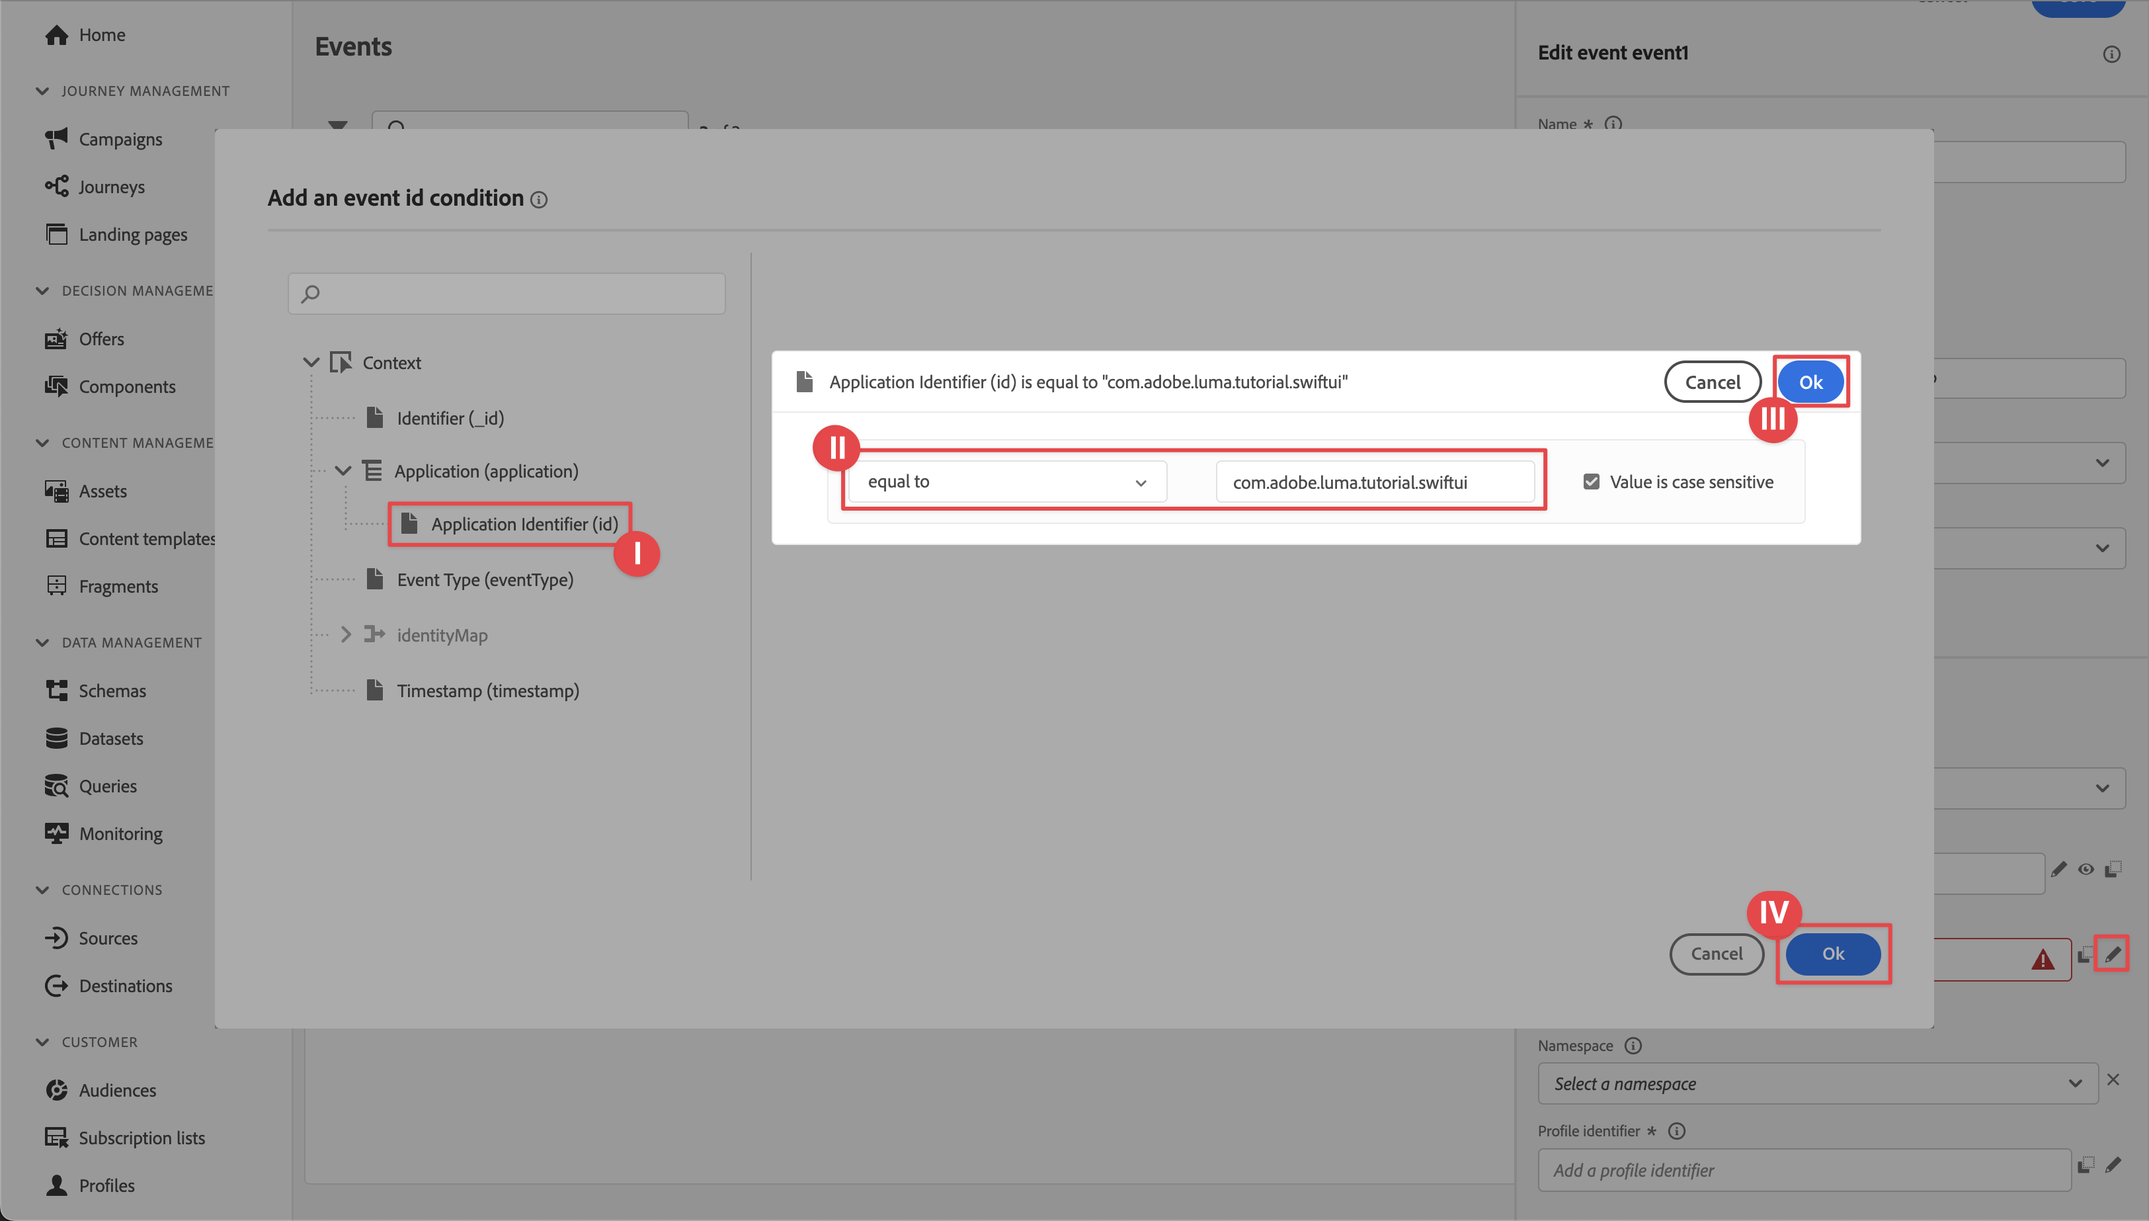
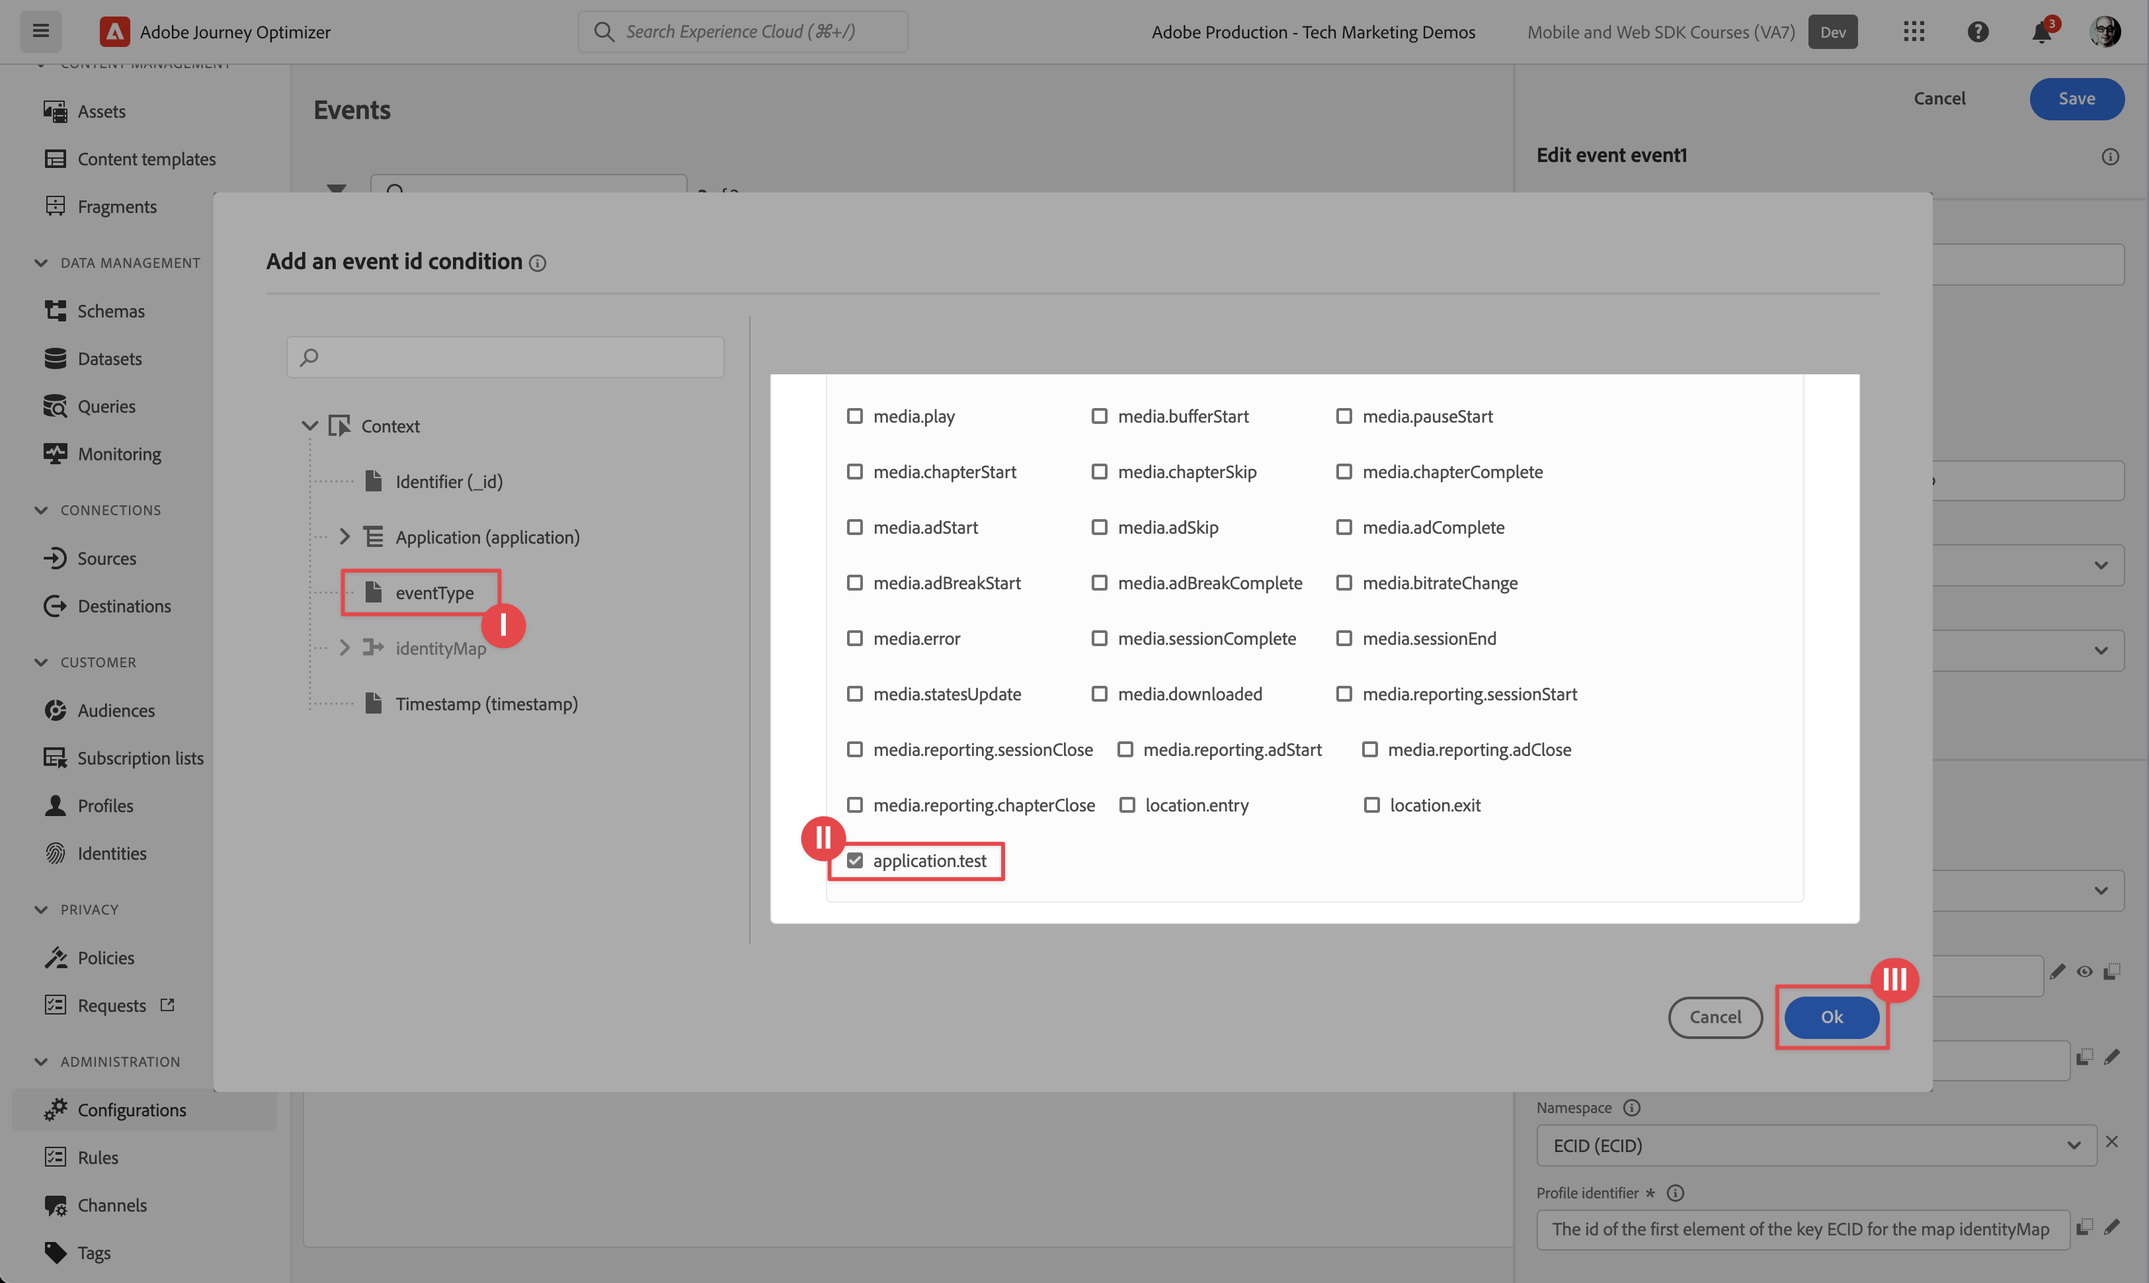
Added Target content

diff --git a/help/tutorial-mobile-sdk-new/target.md b/help/tutorial-mobile-sdk-new/target.md
@@ -1,0 +1,243 @@
+---
+title: Perform A/B Tests with Target
+description: Learn how to use a Target A/B test in you mobile app with Platform Mobile SDK and Adobe Target.
+solution: Data Collection,Target
+feature-set: Target
+feature: A/B Tests
+hide: yes
+---
+
+# Perform A/B Tests with Target
+
+Learn how to perform A/B test in your mobile apps with Platform Mobile SDK and Adobe Target.
+
+Target provides everything you need to tailor and personalize your customers' experiences. Target helps you maximize revenue on your web and mobile sites, apps, social media, and other digital channels. The focus in this tutorial is on the A/B test functionality of Target. See [A/B Test overview](https://experienceleague.adobe.com/docs/target/using/activities/abtest/test-ab.html?lang=en) for more information. 
+
+Before you perform A/B tests with Target Premium, you must ensure that the proper configurations and integrations are in place.
+
+>[!NOTE]
+>
+>This lesson is optional and only applies to Adobe Target Premium users looking to perform A/B tests 
+
+
+## Prerequisites
+
+* Successfully built and run app with SDKs installed and configured.
+* Access to Adobe Target Premium with permissions, properly configured roles, workspaces and properties as described [here](https://experienceleague.adobe.com/docs/target/using/administer/manage-users/enterprise/property-channel.html?lang=en).
+  You should be able to use Target Standard as well, but the tutorial uses a number of advanced concepts (for example Target properties) which are uniqe to Target Premium.
+
+
+## Learning objectives
+
+In this lesson, you will:
+
+* Update your Edge configuration for Target integration.
+* Update your tag property with the Journey Optimizer - Decisioning extension.
+* Update your schema to capture propositon events.
+* Validate setup in Assurance.
+* Create a simple A/B test in Target.
+* Update your app to include the Optimize extension.
+
+* Implement the A/B test in your app.
+
+## Update Edge configuration
+
+You need to update you Experience Edge configuration to ensure data send from your mobile app to the Edge Network is forwarded to Adobe Target.
+
+1. In the Data Collection UI, select **[!UICONTROL Datastreams]**, and select your datastream, for example **[!UICONTROL Luma Mobile App]**.
+1. Select **[!UICONTROL Add Service]** and select **[!UICONTROL Adobe Target]** from the **[!UICONTROL Service]** list.
+1. Enter the Target **[!UICONTROL Property Token]** value you want to use for this integration. 
+
+   You can find your properties in the Target UI, in **[!UICONTROL Administration]** > **[!UICONTROL Properties]**. Select ![Code](https://spectrum.adobe.com/static/icons/workflow_18/Smock_Code_18_N.svg) to reveal the property token for the property you want to use. The property token has a format like `"at_property": "xxxxxxxx-xxxx-xxxxx-xxxx-xxxxxxxxxxxx"`; you only need to enter the value `xxxxxxxx-xxxx-xxxxx-xxxx-xxxxxxxxxxxx`.
+
+1. Select **[!UICONTROL Save]**.
+
+    ![Add Target to datastream](assets/edge-datastream-target.png)
+
+
+## Install Adobe Journey Optimizer - Decisioning tags extension
+
+1. Navigate to **[!UICONTROL Tags]** and find your mobile tag property and open the property.
+1. Select **[!UICONTROL Extensions]**.
+1. Select **[!UICONTROL Catalog]**.
+1. Search for the **[!UICONTROL Adobe Journey Optimizer - Decisioning]** extension.
+1. Install the extension. The extension does not require additional configuration.
+
+    ![Add Decisioning extension](assets/tag-add-decisioning-extension.png)
+
+
+## Update your schema
+
+1. Navigate to Data Collection UI and select Schemas from the left rail.
+1. Select Browse from the top bar.
+1. Select your schema to open it.
+1. In the schema editor, click on + Add next to Field groups.
+1. In the Add fields group, search for proposition, select Experience Event - Proposition Interactions and select add field groups.
+   ![Proposition](assets/schema-fieldgroup-proposition.png)
+1. Select Save to save the changes to your schema.
+
+
+## Validate with Assurance
+
+To validate your setup in Assurance:
+
+1. Go to the Assurance UI.
+1. Select **[!UICONTROL Configure]** in left rail and select ![Add](https://spectrum.adobe.com/static/icons/workflow_18/Smock_AddCircle_18_N.svg) next to **[!UICONTROL Validate Setup]** underneath **[!UICONTROL ADOBE JOURNEY OPTIMIZER DECISIONING]**.
+1. Select **[!UICONTROL Save]**.
+1. Select **[!UICONTROL Validate Setup]** in the left rail. Both datastream setup is validated and the SDK setup in your application.
+   ![AJO Decisioning validation](assets/ajo-decisioning-validation.png) 
+
+## Create an A/B Test
+
+1. In the Target UI, select **[!UICONTROL Activities]** from the top bar.
+1. Select **[!UICONTROL Create Activity]** and **[!UICONTROL A/B Test]** from the context menu.
+1. In the **[!UICONTROL Create A/B Test Activity]** modal, select **[!UICONTROL Mobile]** as the **[!UICONTROL Type]**, select a workspace from the **[!UICONTROL Choose Workspace]** list and select your property from the **[!UICONTROL Choose property]** list.
+1. Select **[!UICONTROL Create]**.
+   ![Create Target activity](assets/target-create-activity1.png)
+
+1. In the **[!UICONTROL Untitled Activity]** screen, at the **[!UICONTROL Experiences]** step:
+
+   1. Enter `luma-mobileapp-abtest` in **[!UICONTROL Select Location]** underneath L**[!UICONTROL OCATION 1]**.
+   1. Select ![Chrevron down](https://spectrum.adobe.com/static/icons/workflow_18/Smock_ChevronDown_18_N.svg) next to **[!UICONTROL Default Content]** and select **[!UICONTROL Create JSON Offer]** from the context menu.
+   1. Copy the following JSON into **[!UICONTROL Enter a valid JSON object]**.
+
+        ```json
+        { 
+            "title": "Luma Anaolog Watch",
+            "text": "Designed to stand up to your active lifestyle, this women's Luma Analog Watch features a tasteful brushed chrome finish and a stainless steel, water-resistant construction for lasting durability.", 
+            "image": "https://luma.enablementadobe.com/content/dam/luma/en/products/gear/watches/Luma_Analog_Watch.jpg" 
+        }
+        ```
+
+   1. Select **[!UICONTROL + Add Experience]**.
+   
+       ![Experience A](assets/target-create-activity-experienceA.png)
+
+   1. Repeat step b and c for  experience Experience B, but instead use the following JSON:
+
+        ```json
+        { 
+            "title": "Aim Analog Watch",
+            "text": "The flexible, rubberized strap is contoured to conform to the shape of your wrist for a comfortable all-day fit. The face features three illuminated hands, a digital read-out of the current time, and stopwatch functions.", 
+            "image": "https://luma.enablementadobe.com/content/dam/luma/en/products/gear/watches/Aim_Watch.jpg" 
+        }
+
+        ```
+
+   1. Select **[!UICONTROL Next]**.
+      
+      ![Experience B](assets/target-create-activity-experienceB.png)
+
+1. In the **[!UICONTROL Targeting]** step, review the setup of your A/B test. By default, both offers are allocated equally across all visitors. Select **[!UICONTROL Next]** to continue.
+
+   ![Targeting](assets/taget-targeting.png)
+
+1. In the **[!UICONTROL Goals & Settings]** step:
+
+    1. Rename your Untitled Activity, for example to to `Luma Mobile SDK Tutorial - A/B Test Example`.
+    1. Enter an **[!UICONTROL Objective]** for your A/B test, for example `A/B Test for Luma mobile app tutorial`.
+    1. Select **[!UICONTROL Conversion]**, **[!UICONTROL Clicked on mbox]** in the **[!UICONTROL Goal Metric]** > **[!UICONTROL MY PRIMARY GOAL]** tile and enter your location (mbox) name, for example `luma-mobileapp-abtest`.
+    1. Select **[!UICONTROL Save & Close]**.
+
+       ![Goals Settings](assets/target-goals.png)
+
+1. Back in the **[!UICONTROL All Activities]** screen:
+
+    1. Select ![More](https://spectrum.adobe.com/static/icons/workflow_18/Smock_MoreSmallList_18_N.svg) at your activity.
+    1. Select ![Play](https://spectrum.adobe.com/static/icons/workflow_18/Smock_Play_18_N.svg) **[!UICONTROL Activate]** to activate your A/B test.
+
+    ![Activate](assets/target-activate.png)
+
+
+## Implement Target in your app
+
+As discussed in previous lessons, installing a mobile tag extension only provides the configuration. Next you must install and register the Optimize SDK. If these steps aren't clear, review the [Install SDKs](install-sdks.md) section.
+
+>[!NOTE]
+>
+>If you completed the [Install SDKs](install-sdks.md) section, then the SDK is already installed and you can skip to step #7.
+>
+
+1. In Xcode, ensure that [AEP Optimize](https://github.com/adobe/aepsdk-messaging-ios.git) is added to the list of packages in Package Dependencies. See [Swift Package Manager](install-sdks.md#swift-package-manager).
+1. Navigate to **[!UICONTROL Luma]** > **[!UICONTROL Luma]** > **[!UICONTROL AppDelegate]**.
+1. Ensure `AEPMessaging` is part of your list of imports.
+
+    `import AEPOptimize`
+
+1. Ensure `Optimize.self` is part of the array of extensions that you are registering.
+
+    ```swift
+    let extensions = [
+        AEPIdentity.Identity.self,
+        Lifecycle.self,
+        Signal.self,
+        Edge.self,
+        AEPEdgeIdentity.Identity.self,
+        Consent.self,
+        UserProfile.self,
+        Places.self,
+        Messaging.self,
+        Optimize.self,
+        Assurance.self
+    ]
+    ```
+
+1. Navigate to **[!UICONTROL Luma]** > **[!UICONTROL Luma]** > **[!UICONTROL Utils]** > **[!UICONTROL MobileSDK]** in Xcode Project navigator. Find the ` func updatePropositionAT(ecid: String, location: String) async` function. Inspect the code which sets up an XDM dictionary `xdmData`, containing the ECID to identify the profile for which we have to present the A/B test, and the `decisionScope`, an array of locations on where to present the A/B test. Then the functions call two Optimize API's: [`Optimizer.clearCachePropositions`](https://support.apple.com/en-ie/guide/mac-help/mchlp1015/mac)  and [`Optimizer.updatePropositions`](https://developer.adobe.com/client-sdks/documentation/adobe-journey-optimizer-decisioning/api-reference/#updatepropositions).  These functions clear any cached propositions and update the propositions for this profile.
+
+1. Navigate to **[!UICONTROL Luma]** > **[!UICONTROL Luma]** > **[!UICONTROL Views]** > **[!UICONTROL Personalization]** > **[!UICONTROL TargetOffersView]** in Xcode Project navigator. Find the `func getPropositionAT(location: String) async` function and inspect the code of this function. The most important part of this function is the  [`Optimizer.getPropositions`](https://developer.adobe.com/client-sdks/documentation/adobe-journey-optimizer-decisioning/api-reference/#getpropositions) API call, which retrieves the propositions for the current profile based on the decision scope (which is the location you have defined in the A/B Test) and unwraps the result in content that can be displayed properly in the app.
+
+1. Still in TargetOffersView, find the func updatePropositions(location: String) async function and add the following code:
+
+    ```swift
+        Task {
+            await self.updatePropositionAT(
+                ecid: currentEcid,
+                location: location
+            )
+        }
+        try? await Task.sleep(seconds: 2.0)
+        Task {
+            await self.getPropositionAT(
+                location: location
+            )
+        }
+    ```
+
+    This code ensures we proper update the propositions and then retrieve the results using the functions described in step 5 and 6.
+
+
+## Validate using the app
+
+1. Open your app on a device or in the simulator.
+
+1. Go to the **[!UICONTROL Personalisation]** tab.
+
+1. Select **[!UICONTROL Edge Personalisation]**.
+
+1. Scroll down to the bottom, and you see one of the two offers that you have defined in your A/B test displayed in the **[!UICONTROL TARGET]** tile.
+
+    <img src="assets/target-app-offer.png" width=300>
+
+
+## Validate in Assurance
+
+To validate the A/B test in Assurance:
+
+1. Go to the Assurance UI.
+1. Select **[!UICONTROL Configure]** in left rail and select ![Add](https://spectrum.adobe.com/static/icons/workflow_18/Smock_AddCircle_18_N.svg) next to **[!UICONTROL Review & Simuate]** underneath **[!UICONTROL ADOBE JOURNEY OPTIMIZER DECISIONING]**.
+1. Select **[!UICONTROL Save]**.
+1. Select **[!UICONTROL Review & Simulate]** in the left rail. Both datastream setup is validated and the SDK setup in your application.
+1. Select **[!UICONTROL Requests]** at the top bar. You will see your Target requests.
+   ![AJO Decisioning validation](assets/assurance-decisioning-requests.png)
+
+1. You can explore Simulate and Event List tabs for further functionality checking your setup for Target offers.
+
+## Implement in your app
+
+You should now have all the tools to start adding more A/B tests or other Target activities, where relevant and applicable, to the Luma app.
+
+>[!SUCCESS]
+>
+>You have now enabled the app for A/B tests and used an A/B test using Adobe Target and the Adobe Journey Optimizer - Decisioning extension for the Adobe Experience Platform Mobile SDK.<br/>Thank you for investing your time in learning about Adobe Experience Platform Mobile SDK. If you have questions, want to share general feedback, or have suggestions on future content, share them on this [Experience League Community discussion post](https://experienceleaguecommunities.adobe.com/t5/adobe-experience-platform-launch/tutorial-discussion-implement-adobe-experience-cloud-in-mobile/td-p/443796).
+
+Next: **[Conclusion and next steps](conclusion.md)**

diff --git a/help/tutorial-mobile-sdk-new/journey-optimizer-push.md b/help/tutorial-mobile-sdk-new/journey-optimizer-push.md
@@ -169,6 +169,20 @@ As discussed in previous lessons, installing a mobile tag extension only provide
 
 To create your own push notification, you must define an event in Journey Optimizer that triggers a journey that takes care of sending a push notification.
 
+### Update schema
+
+You are going to define a new event type not available yet as part of the list of events as defined in your schema.
+
+1. In the Journey Optimier UI, select **[!UICONTROL Schemas]** from the left rail.
+1. Select **[!UICONTROL Browse]** in the tab bar.
+1. Select your schema, for example **[!UICONTROL Luma Mobile App Event Schema]** to open it.
+1. In the Schema editor:
+   1. Select the **[!UICONTROL eventType]** field.
+   1. In the **[!UICONTROL Field properties]** pane, scroll down to see the list of possible values for event type. Select **[!UICONTROL Add row]**, and add `application.test` as the **[!UICONTROL VALUE]** and **[!UICONTROL Test event for push notification]** as the `DISPLAY NAME`.
+   1. Select **[!UICONTROL Apply]**.
+   1. Select **[!UICONTROL Save]**.
+      ![Add value to event types](assets/ajo-update-schema-eventtype-enum.png)
+
 ### Define an event
 
 1. In the Journey Optimizer UI, select **[!UICONTROL Configurations]** from the left rail.
@@ -187,7 +201,7 @@ To create your own push notification, you must define an event in Journey Optimi
 
       ![Edit event step 1](assets/ajo-edit-event1.png)
 
-      In the **[!UICONTROL Fields]** dialog, ensure that the following fields are selected (on top of the default fields that are always selected (_id, id, and timestamp)). You can toggle, using the dropdown list, between **[!UICONTROL Selected]**, **[!UICONTROL All]** and **[!UICONTROL Primary]** or use the ![Search](https://spectrum.adobe.com/static/icons/workflow_18/Smock_Search_18_N.svg) field.
+      In the **[!UICONTROL Fields]** dialog, ensure that the following fields are selected (on top of the default fields that are always selected (**[!UICONTROL _id]**, **[!UICONTROL id]**, and **[!UICONTROL timestamp]**)). You can toggle, using the dropdown list, between **[!UICONTROL Selected]**, **[!UICONTROL All]** and **[!UICONTROL Primary]** or use the ![Search](https://spectrum.adobe.com/static/icons/workflow_18/Smock_Search_18_N.svg) field.
 
       * **[!UICONTROL Application Identified (id)]**, 
       * **[!UICONTROL Event Type (eventType)]**, 
@@ -199,9 +213,8 @@ To create your own push notification, you must define an event in Journey Optimi
     
    1. Select ![Edit](https://spectrum.adobe.com/static/icons/workflow_18/Smock_Edit_18_N.svg) next to the **[!UICONTROL Event id condition]** field.
 
-      1. In the **[!UICONTROL Add an event id condition]** dialog, drag and drop **[!UICONTROL Application Identifier (id)]** underneath **[!UICONTROL Application (application)]** on to **[!UICONTROL Drag and drop an element here]**.
-      1. In the popover, enter your Bundle Identifier from Xcode, for example `com.adobe.luma.tutorial.swiftui` in the field next to **[!UICONTROL equal to]**. 
-      1. Click **[!UICONTROL Ok]**.
+      1. In the **[!UICONTROL Add an event id condition]** dialog, drag and drop **[!UICONTROL Event Type (eventType)]** on to **[!UICONTROL Drag and drop an element here]**.
+      1. In the popover, scroll to the bottom and select **[!UICONTROL application.test]**. Then scroll up to the top and select **[!UICONTROL Ok]**.
       1. Click **[!UICONTROL Ok]**.
          ![Edit event condition](assets/ajo-edit-condition.png)
 

diff --git a/help/tutorial-mobile-sdk-new/journey-optimizer-offers.md b/help/tutorial-mobile-sdk-new/journey-optimizer-offers.md
@@ -1,0 +1,9 @@
+---
+title: Adobe Journey Optimizer offers
+description: Learn how to create and display offers with Platform Mobile SDK and Adobe Journey Optimizer Decision Management.
+solution: Data Collection,Journey Optimizer
+feature-set: Journey Optimizer
+feature: Push
+hide: yes
+---
+# Adobe Journey Optimizer offers

diff --git a/help/tutorial-mobile-sdk-new/TOC.md b/help/tutorial-mobile-sdk-new/TOC.md
@@ -32,5 +32,6 @@ recommendations: noDisplay,noCatalog
   + Journey Optimzer{#journey-optimizer}
     + [Push messaging](journey-optimizer-push.md)
     + [In-app messaging](journey-optimizer-inapp.md)
+  + [Target](target.md)
 + [Conclusion](conclusion.md)
   
